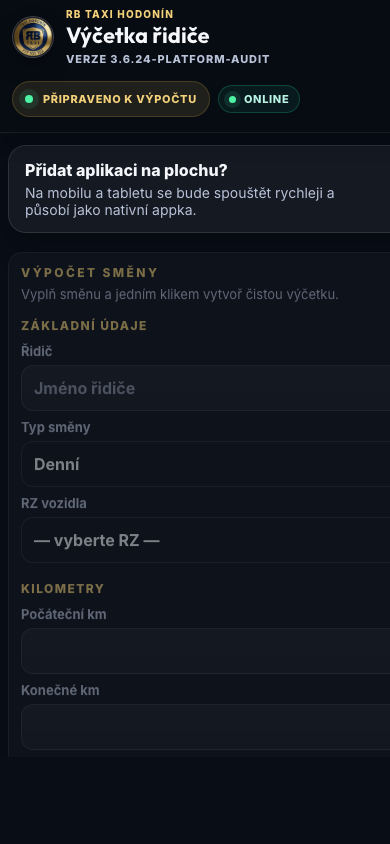
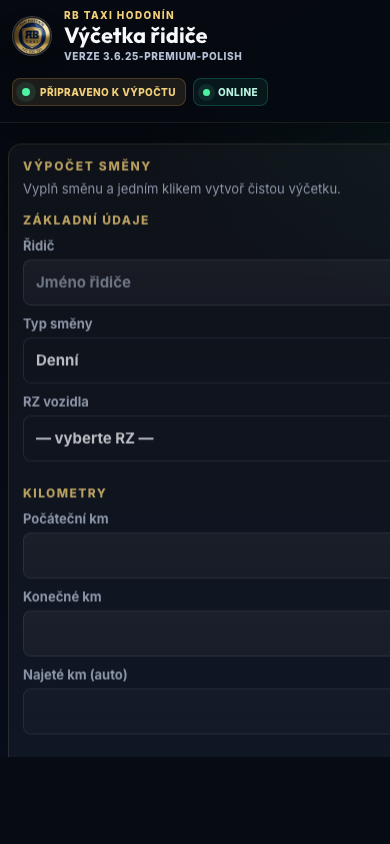
Add files via upload

diff --git a/style.css b/style.css
@@ -57,6 +57,8 @@ body.light-mode {
 
 * { box-sizing: border-box; -webkit-tap-highlight-color: transparent; }
 html, body { margin: 0; padding: 0; min-height: 100%; }
+html { background: #060b14; }
+body { min-height: 100vh; }
 html { overflow-x: hidden; }
 body {
   position: relative;
@@ -1690,4 +1692,193 @@ body.light-mode .network-status.is-offline {
 @media (max-width: 760px) {
   .header-status-stack { width: 100%; }
   .network-status { min-height: 28px; }
+}
+
+
+/* Premium polish 3.6.25 */
+:root {
+  --radius-2xl: 16px;
+  --radius-xl: 12px;
+  --radius-lg: 8px;
+  --radius-md: 8px;
+}
+body {
+  background:
+    radial-gradient(760px 420px at 12% -8%, rgba(243,209,122,0.14), transparent 58%),
+    radial-gradient(720px 460px at 100% 4%, rgba(29,209,161,0.08), transparent 52%),
+    linear-gradient(180deg, #05070d 0%, #071021 52%, #060b14 100%);
+}
+body::before { opacity: 0.55; }
+.app-header {
+  padding: calc(9px + env(safe-area-inset-top)) 18px 10px;
+  background: rgba(5, 8, 15, 0.86);
+  box-shadow: 0 10px 26px rgba(0,0,0,0.26);
+}
+.brand-wrap { gap: 12px; min-width: 0; }
+.brand-icon { width: 44px; height: 44px; box-shadow: 0 8px 18px rgba(0,0,0,0.24); }
+.eyebrow { font-size: 10px; letter-spacing: 0.14em; margin-bottom: 3px; }
+.brand-title { font-size: clamp(22px, 4vw, 28px); }
+.app-version { margin-top: 4px; font-size: 10px; letter-spacing: 0.06em; }
+.header-status-stack { gap: 7px; justify-content: flex-end; }
+.header-status,
+.network-status { min-height: 28px; padding: 0 9px; border-radius: 8px; font-size: 10px; letter-spacing: 0.04em; }
+.header-actions { gap: 7px; }
+.icon-button { width: 40px; min-height: 40px; }
+main { max-width: 900px; padding-top: 18px; }
+.glass-shell { padding: clamp(14px, 2.4vw, 20px); border-color: rgba(243,209,122,0.16); }
+.shell-topbar { margin-bottom: 14px; }
+.shell-title { letter-spacing: 0.14em; }
+.shell-subtitle { max-width: 520px; line-height: 1.45; }
+.section-heading { margin-bottom: 10px; letter-spacing: 0.12em; }
+.section-heading:not(:first-child) { margin-top: 20px; padding-top: 4px; }
+.form-grid { gap: 10px; }
+.label-text { margin-bottom: 6px; font-size: 13px; }
+.field-hint { margin-top: 6px; font-size: 11px; }
+input,
+select { height: 46px; border-radius: 8px; padding: 0 12px; font-size: 15px; }
+input:focus,
+select:focus { transform: none; box-shadow: 0 0 0 3px rgba(212,175,55,0.18); }
+.live-chip,
+.kpi-card,
+.command-card,
+.ops-item,
+#output .summary-card,
+#output .detail-card,
+.status-meter,
+.cash-breakdown div { border-radius: 8px; }
+button { min-height: 46px; border-radius: 8px; }
+.form-actions { margin-top: 18px; }
+.form-actions .primary { min-height: 54px; font-size: 16px; }
+#output {
+  margin-top: 16px;
+  padding: clamp(16px, 3vw, 24px);
+  border-radius: 14px;
+  border-color: rgba(243,209,122,0.24);
+  background:
+    linear-gradient(180deg, rgba(255,255,255,0.075), rgba(255,255,255,0.035)),
+    rgba(5,10,22,0.72);
+}
+#output .report-head { align-items: center; margin-bottom: 16px; padding-bottom: 16px; }
+#output .report-mark { width: 46px; height: 46px; }
+#output .title { font-size: clamp(24px, 4vw, 31px); letter-spacing: 0; color: var(--gold-2); }
+#output .subtitle { margin-top: 5px; }
+#output .report-badge,
+#output .report-status { border-radius: 8px; }
+#output .report-total-card {
+  padding: clamp(16px, 3vw, 22px);
+  border-radius: 8px;
+  border-color: rgba(243,209,122,0.34);
+  background:
+    linear-gradient(135deg, rgba(243,209,122,0.17), rgba(29,209,161,0.08)),
+    linear-gradient(135deg, #071225, #10295a);
+}
+#output .report-total-card.is-bad {
+  background:
+    linear-gradient(135deg, rgba(255,107,107,0.18), rgba(243,209,122,0.10)),
+    linear-gradient(135deg, #3b121b, #10295a);
+}
+#output .report-total-label { letter-spacing: 0.12em; }
+#output .report-total-note { font-size: 12px; }
+#output .report-total-value { font-size: clamp(34px, 7vw, 46px); line-height: 1; }
+#output .summary-grid { gap: 10px; margin-bottom: 12px; }
+#output .summary-card,
+#output .detail-card,
+#output .row { background: rgba(255,255,255,0.055); border-color: rgba(255,255,255,0.10); }
+#output .summary-card { padding: 12px; }
+#output .summary-card .big { font-size: clamp(19px, 3vw, 24px); }
+#output .detail-grid { gap: 10px; }
+#output .detail-card { padding: 12px; }
+#output .row { border-radius: 8px; padding: 9px 11px; }
+#output .row.accent-grand { background: linear-gradient(135deg, #071225, #18376f); border-color: rgba(243,209,122,0.32); }
+.action-stack {
+  grid-template-columns: repeat(4, minmax(0, 1fr));
+  gap: 10px;
+  margin-top: 12px;
+  padding: 12px;
+  border: 1px solid rgba(243,209,122,0.18);
+  border-radius: 14px;
+  background: rgba(5,10,22,0.70);
+  box-shadow: var(--shadow-lg);
+  backdrop-filter: var(--glass);
+  -webkit-backdrop-filter: var(--glass);
+}
+.action-copy {
+  grid-column: 1 / -1;
+  display: flex;
+  align-items: baseline;
+  justify-content: space-between;
+  gap: 12px;
+  padding: 0 2px 2px;
+}
+.action-copy strong { color: var(--gold-2); font-size: 14px; }
+.action-copy span { color: var(--muted); font-size: 13px; font-weight: 700; }
+.action-stack button { min-height: 48px; }
+.action-stack .main-export-action { min-height: 54px; font-size: 16px; }
+.action-stack .quiet-action { opacity: 0.74; }
+.app-notice { border-radius: 8px; }
+body.light-mode {
+  --text: #101828;
+  --muted: #475467;
+  --line: rgba(16, 24, 40, 0.14);
+  background:
+    radial-gradient(760px 420px at 12% -8%, rgba(214,173,52,0.15), transparent 58%),
+    linear-gradient(180deg, #f7f9fc 0%, #eef3f8 100%);
+}
+body.light-mode .app-header,
+body.light-mode .glass-shell,
+body.light-mode #output,
+body.light-mode .modal-content,
+body.light-mode .install-banner,
+body.light-mode .action-stack {
+  background: rgba(255,255,255,0.96);
+  border-color: rgba(16,24,40,0.14);
+  box-shadow: 0 12px 32px rgba(16,24,40,0.09);
+}
+body.light-mode .app-header { background: rgba(255,255,255,0.92); }
+body.light-mode .brand-title { background: none; -webkit-background-clip: initial; color: #101828; }
+body.light-mode .eyebrow,
+body.light-mode .shell-title,
+body.light-mode .section-heading,
+body.light-mode .action-copy strong,
+body.light-mode #output .title,
+body.light-mode #output .report-total-label,
+body.light-mode #output .detail-title { color: #7a5600; }
+body.light-mode .shell-subtitle,
+body.light-mode .label-text,
+body.light-mode .field-hint,
+body.light-mode .action-copy span { color: #475467; }
+body.light-mode input,
+body.light-mode select { background: #ffffff; border-color: rgba(16,24,40,0.18); }
+body.light-mode .live-chip,
+body.light-mode .kpi-card,
+body.light-mode .command-card,
+body.light-mode .ops-item,
+body.light-mode #output .summary-card,
+body.light-mode #output .detail-card,
+body.light-mode #output .row,
+body.light-mode .status-meter,
+body.light-mode .cash-breakdown div { background: #ffffff; border-color: rgba(16,24,40,0.12); }
+body.light-mode #output .report-total-card { background: linear-gradient(135deg, #10295a, #18437d); border-color: rgba(122,86,0,0.30); }
+body.light-mode #output .report-total-card.is-bad { background: linear-gradient(135deg, #7a2632, #18437d); }
+body.light-mode #output .report-total-value { color: #fff7d6; }
+body.light-mode #output .report-total-note { color: #e8eefc; }
+body.light-mode .action-stack .quiet-action { background: #f8fafc; }
+@media (max-width: 760px) {
+  .app-header { gap: 10px; padding-left: 12px; padding-right: 12px; }
+  .brand-icon { width: 40px; height: 40px; }
+  .brand-title { font-size: 22px; }
+  .header-actions-wrap { gap: 8px; }
+  .header-status-stack { justify-content: flex-start; }
+  .action-stack { grid-template-columns: 1fr 1fr; padding: 10px; }
+  .action-copy { display: block; }
+  .action-copy span { display: block; margin-top: 4px; }
+  .action-stack .main-export-action,
+  .action-stack .export-action { grid-column: 1 / -1; }
+  #output .report-total-card { display: grid; }
+  #output .report-total-value { white-space: normal; }
+}
+@media (max-width: 430px) {
+  .brand-title { font-size: 20px; }
+  .eyebrow { font-size: 9px; }
+  #output .summary-grid { grid-template-columns: 1fr 1fr; }
 }

diff --git a/app.js b/app.js
@@ -1,5 +1,5 @@
 document.addEventListener("DOMContentLoaded", () => {
-  const VERSION = "3.6.24-platform-audit";
+  const VERSION = "3.6.25-premium-polish";
   const CONFIG_KEYS = {
     commRate: "rb_commRate",
     baseFull: "rb_baseFull",
@@ -673,12 +673,12 @@ document.addEventListener("DOMContentLoaded", () => {
         <div class="report-brand">
           <img src="icon-192.png" alt="RB TAXI" class="report-mark" />
           <div>
-            <div class="title">Výčetka řidiče</div>
+            <div class="title">Hotová výčetka</div>
             <div class="subtitle">RB TAXI Hodonín • ${safeDatum}</div>
           </div>
         </div>
         <div class="report-meta">
-          <div class="report-badge">Souhrn směny</div>
+          <div class="report-badge">Připraveno k odeslání</div>
           <div class="report-status ${metrics.nedoplatek ? "bad" : "good"}">${statusText}</div>
         </div>
       </div>
@@ -686,7 +686,7 @@ document.addEventListener("DOMContentLoaded", () => {
       <div class="report-total-card ${metrics.nedoplatek ? "is-bad" : "is-good"}">
         <div>
           <div class="report-total-label">K odevzdání celkem</div>
-          <div class="report-total-note">hotovost po odečtení výplaty${metrics.nedoplatek ? " a doplatku na minimum" : ""}</div>
+          <div class="report-total-note">hotovost po výplatě${metrics.nedoplatek ? " + doplatek na minimum" : ""}</div>
         </div>
         <div class="report-total-value">${formatMoney(metrics.settlement)}</div>
       </div>
@@ -769,7 +769,7 @@ document.addEventListener("DOMContentLoaded", () => {
           <div class="share-brand">
             <img src="icon-192.png" alt="RB TAXI" class="share-mark" />
             <div>
-              <div class="share-title">Výčetka řidiče</div>
+              <div class="share-title">Hotová výčetka</div>
               <div class="share-subtitle">RB TAXI Hodonín • ${safeDatum}</div>
             </div>
           </div>
@@ -779,7 +779,7 @@ document.addEventListener("DOMContentLoaded", () => {
         <div class="share-total ${metrics.nedoplatek ? "is-bad" : ""}">
           <div class="share-total-label">K odevzdání celkem</div>
           <div class="share-total-value">${formatMoney(metrics.settlement)}</div>
-          <div class="share-total-note">hotovost po odečtení výplaty${metrics.nedoplatek ? " a doplatku na minimum" : ""}</div>
+          <div class="share-total-note">hotovost po výplatě${metrics.nedoplatek ? " + doplatek na minimum" : ""}</div>
         </div>
 
         <div class="share-grid">
@@ -948,7 +948,7 @@ document.addEventListener("DOMContentLoaded", () => {
       await navigator.share({
         files: [file],
         title: "Výčetka",
-        text: "RB TAXI – Výčetka řidiče",
+        text: "RB TAXI – Hotová výčetka",
       });
       return { shared: true, downloaded: false };
     }
@@ -1185,7 +1185,7 @@ document.addEventListener("DOMContentLoaded", () => {
       const text = el.networkStatus.querySelector("span:last-child");
       if (text) text.textContent = online ? "Online" : "Offline";
       if (announce) {
-        showNotice(online ? "Aplikace je zpět online." : "Aplikace je offline. Výpočet funguje, export může být omezený.", online ? "good" : "bad");
+        showNotice(online ? "Jsme online." : "Offline režim. Výpočet funguje, export může být omezený.", online ? "good" : "bad");
       }
     };
     update(false);

diff --git a/index.html b/index.html
@@ -189,6 +189,10 @@
     <section id="output" class="hidden"></section>
 
     <div id="actions" class="action-stack hidden">
+      <div class="action-copy">
+        <strong>Výčetka je připravená</strong>
+        <span>Sdílej obrázek do zprávy, nebo stáhni PDF pro archiv.</span>
+      </div>
       <button type="button" id="editShiftBtn" class="secondary quiet-action"><svg class="icon"><use href="#icon-doc"></use></svg> Upravit údaje</button>
       <button type="button" id="newShiftBtn" class="secondary quiet-action"><svg class="icon"><use href="#icon-refresh"></use></svg> Nová směna</button>
       <button type="button" id="shareImgBtn" class="primary main-export-action"><svg class="icon"><use href="#icon-share"></use></svg> Sdílet výčetku</button>

diff --git a/service-worker.js b/service-worker.js
@@ -1,4 +1,4 @@
-const CACHE_NAME = 'rb-taxi-vycetka-v3-6-24-platform-audit';
+const CACHE_NAME = 'rb-taxi-vycetka-v3-6-25-premium-polish';
 const APP_SHELL = [
   './',
   './index.html',
